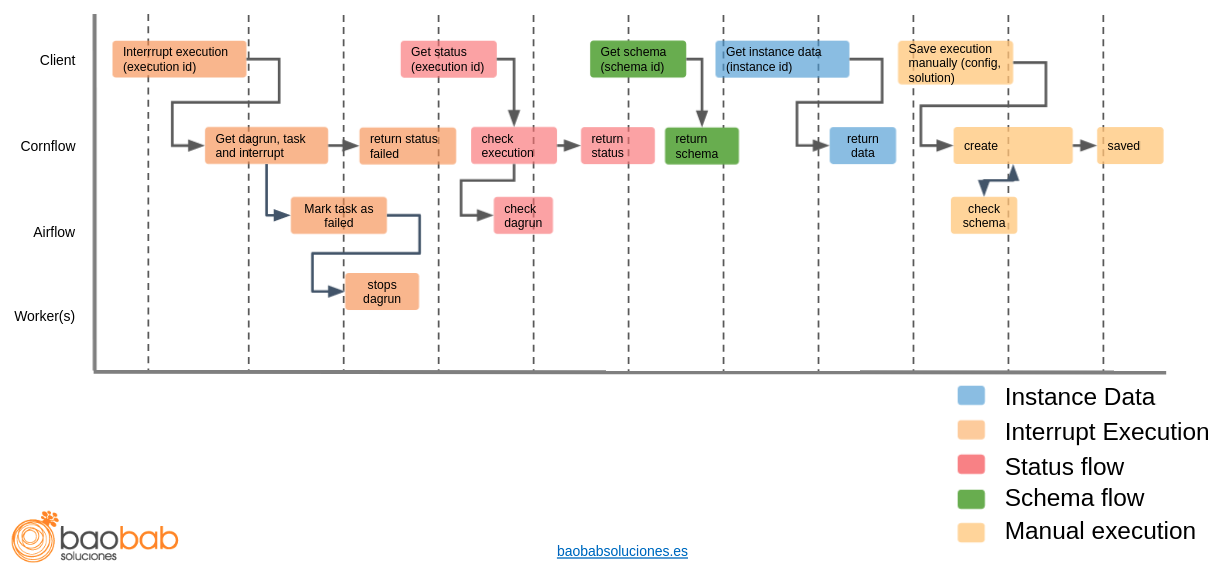
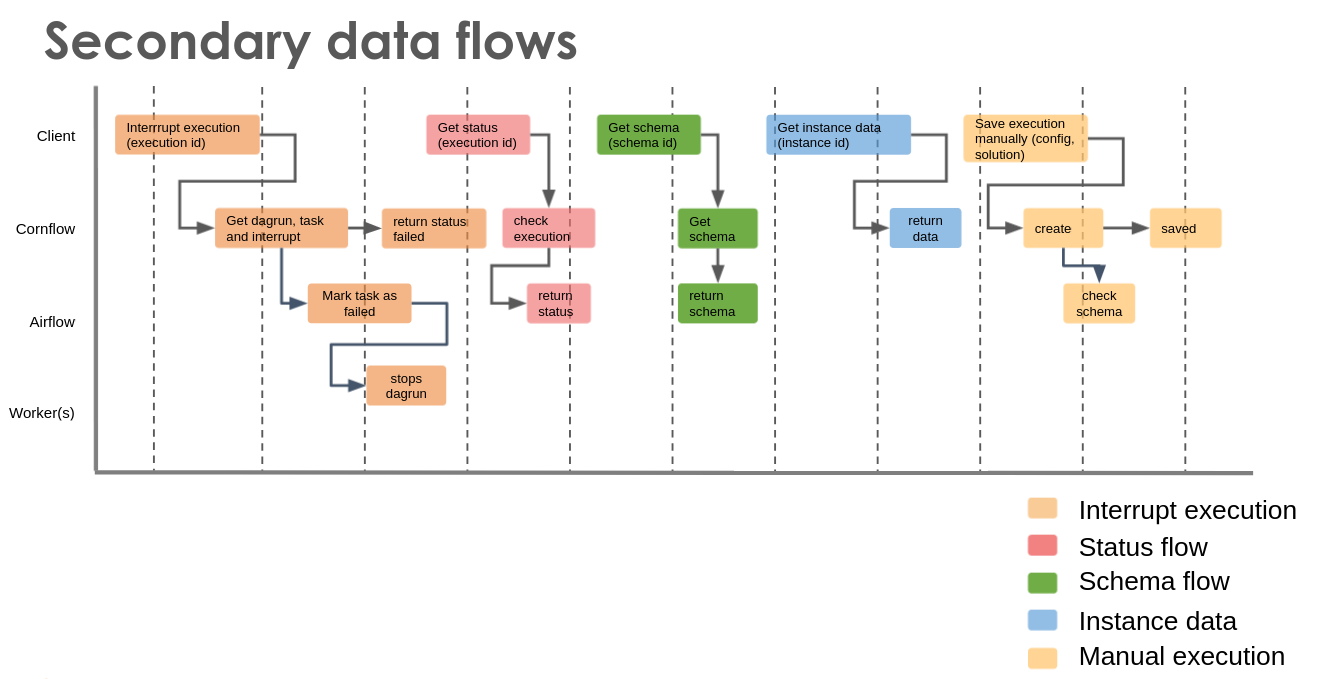
Docs (#92)
* updated README, docs.

* added more examples and docs

* fixed some missing paragraph.

* fixed typo

* more docs with more images

* added some naming conventions to the docs in jsonschema

diff --git a/docs/source/main/concepts.rst b/docs/source/main/concepts.rst
@@ -15,6 +15,13 @@ We sometimes refer to this Decision Problem as an Abstract Problem or just Probl
 
 In Cornflow, a Problem is represented by two schema json files: the first schema file describes the kind of input data format it accepts. This schema describes any Instance of the Problem. The second schema file describes the output data format it returns. This schema describes any Solution of the Problem.
 
+.. _concepts1:
+
+.. figure:: ./../_static/concepts1.png
+
+   Main concepts in a Cornflow deployment of an Optimization Problem
+
+
 Instance
 -------------
 
@@ -51,14 +58,49 @@ A solution method (also called Algorithm) is a function that takes as input an I
 In Cornflow, A Solution Method is a subclass of Experiment.
 
 
-Solve Configuration
+Configuration
 ---------------------
 
-Each Solution Method has ways to configure certain characteristics. The Solve Configuration stores that personalization, such as the time limit, the gap tolerance, among other.
+Each Solution Method has ways to configure certain characteristics. The solve Configuration stores that personalization, such as the time limit, the gap tolerance, among other.
 
 
 Execution
 -------------
 
 Consists of: (1) an Instance with (2) a Solve Configuration and (3) a Solution Method. It is the actual solving of the Decision Problem. It returns a Solution.
+
+Implementation
+-------------------
+
+In practice, Cornflow uses jsonschema to validate the schemas of Instance, Configuration and Solution. It uses python to define a solve method.
+
+.. _concepts2:
+
+.. figure:: ./../_static/concepts2.png
+
+   Implementation of main concepts
+
+
+An example with TSP
+------------------------
+
+Let's take the classical (and famous) problem of the TSP. We need to find the shortest path that joins all nodes in a graph and passes only once through each node. The input data is the distance matrix between each pair of nodes. The output data is an ordered list of nodes (to visit).
+
+Solution methods can be many: a MIP model, a CP model, a call to the `Concorde solver <https://www.math.uwaterloo.ca/tsp/concorde.html>`_, a 2-opt heuristic implementation among many others.
+
+.. _concepts_tsp:
+
+.. figure:: ./../_static/concepts_tsp.png
+
+   Implementation of concepts for a TSP
+
+The following figure shows the schemas and python code required to build the smallest possible TSP Optimization Problem. The solve method consists of returning the nodes in an arbitrary order. Although the solution complies with the schema, the quality of this solution will probable be very low.
+
+.. _concepts_tsp2:
+
+.. figure:: ./../_static/concepts_tsp2.png
+
+   Schemas and solve method for TSP implementation
+
+For more details on these schemas, check :ref:`the json-schema section<Write a json-schema>`. That section includes also the complete :ref:`TSP schemas in text form<Example with TSP>`.
 

diff --git a/docs/source/guides/jsonschema.rst b/docs/source/guides/jsonschema.rst
@@ -139,10 +139,71 @@ Even though most properties of our schema object must be arrays, an exception is
      ]
     }
 
+Naming conventions
+*********************
+
+When naming columns in a "master table", we refer to the unique id of each row as "id" (see the ``shifts`` property below. When an id is used as a foreign key in another table (see the ``resources_not_available`` property), we use id_shift to denote that is the id of the shift that we are using.
+
+.. code-block:: json
+
+    {
+    "$schema": "http://json-schema.org/schema#",
+    "type": "object",
+    "properties": {
+        "shifts": {
+            "type": "array",
+            "items": {
+                "type": "object",
+                "properties": {
+                    "id": {
+                        "type": "string"
+                    },
+                    "start_time": {
+                        "type": "string"
+                    },
+                    "end_time": {
+                        "type": "string"
+                    }
+                },
+                "required": [
+                    "id",
+                    "start_time",
+                    "end_time"
+                ]
+            }
+        },
+        "resources_unavailable": {
+            "type": "array",
+            "items": {
+                "type": "object",
+                "properties": {
+                    "id_resource": {
+                        "type": "string"
+                    },
+                    "id_shift": {
+                        "type": "string"
+                    },
+                    "start_date": {
+                        "type": "string"
+                    },
+                    "end_date": {
+                        "type": "string"
+                    }
+                },
+                "required": [
+                    "id_resource",
+                    "id_shift",
+                    "start_date",
+                    "end_date"
+                ]
+            }
+        },
+        "required": ["shifts", "resources_unavailable"]
+    }
 
 
-Example: TSP
------------------
+Example with TSP
+-------------------
 
 Let's take the well known TSP problem and generate an instance, a solution and a configuration following these guidelines.
 
@@ -234,8 +295,8 @@ An alternative, still valid, schema would be:
 Here we assume the array is sorted and so we do not need the position of the node explicitly.
 
 
-Configuration
-***************
+Configuration schema
+*********************
 
 The configuration will depend on the application. We usually have some default configuration tailored to MIP problems. Here is a minimalistic proposal
 

diff --git a/docs/source/main/architecture.rst b/docs/source/main/architecture.rst
@@ -41,12 +41,12 @@ Any library that uses the REST API to use Cornflow. There are two official clien
 The REST API is created with Open API standards (see :ref:`REST API <rest-api-reference>`), so it should be fairly easy to build new apis.
 
 
-Data flows
-------------
+Main data flows
+-----------------
 
-.. _my-figure:
+.. _main-data-flows:
 
-.. figure:: ./../_static/data_flow.png
+.. figure:: ./../_static/main_flows.png
 
    The main data flows between components
 
@@ -68,13 +68,46 @@ Solve instance (instance, config, dag):
 #. The worker solves the problem.
 #. The worker sends Cornflow the results (solution and log) of the execution.
 
+Retrieve results (execution):
+
+#. Client asks Cornflow for the results to an execution.
+#. Cornflow returns the execution solution and / or log.
+
+Secondary flows
+----------------
+
+.. secondary-data-flows:
+
+.. figure:: ./../_static/secondary_flows.png
+
+   The secondary data flows between components
+
+Interrupt execution (execution):
+
+#. Client asks Cornflow to stop an execution.
+#. Cornflow checks the current status and asks Airflow to stop the execution.
+#. Airflow kills the process and worker by deleting the execution.
+
 Retrieve status (execution):
 
 #. Client asks Cornflow for the results to an execution.
 #. If Cornflow does not know it: it asks Airflow for the status.
 #. Cornflow returns the status to the user.
 
-Retrieve results (execution):
+Retrieve schema:
 
-#. Client asks Cornflow for the results to an execution.
-#. Cornflow returns the execution solution and / or log.
+#. Client asks Cornflow for the schema to a problem.
+#. Cornflow asks Airflow for the schema of a problem.
+#. Airflow returns the schema if it exists.
+
+Get instance data:
+
+#. Client asks Cornflow for the data of an instance.
+#. Cornflow returns the data of the instance if it exists.
+
+Save manual execution:
+
+#. Client sends Cornflow a solved problem.
+#. Cornflow check the problem matches the schema.
+#. Cornflow saves the execution.
+

diff --git a/README.rst b/README.rst
@@ -1,14 +1,14 @@
 Cornflow
 =========
 
-.. image:: https://github.com/baobabsoluciones/corn/workflows/build/badge.svg?style=svg
-    :target: https://github.com/baobabsoluciones/corn/actions
+.. image:: https://github.com/baobabsoluciones/cornflow-server/workflows/build/badge.svg?style=svg
+    :target: https://github.com/baobabsoluciones/cornflow-server/actions
 
-.. image:: https://github.com/baobabsoluciones/corn/workflows/docs/badge.svg?style=svg
-    :target: https://github.com/baobabsoluciones/corn/actions
+.. image:: https://github.com/baobabsoluciones/cornflow-server/workflows/docs/badge.svg?style=svg
+    :target: https://github.com/baobabsoluciones/cornflow-server/actions
 
-.. image:: https://github.com/baobabsoluciones/corn/workflows/integration/badge.svg?style=svg
-    :target: https://github.com/baobabsoluciones/corn/actions
+.. image:: https://github.com/baobabsoluciones/cornflow-server/workflows/integration/badge.svg?style=svg
+    :target: https://github.com/baobabsoluciones/cornflow-server/actions
 
 .. image:: https://img.shields.io/pypi/v/cornflow-client.svg?style=svg
    :target: https://pypi.python.org/pypi/cornflow-client

diff --git a/docs/source/deploy/index.rst b/docs/source/deploy/index.rst
@@ -2,7 +2,7 @@ Deploy your own Cornflow-server
 ==========================================
 
 From the beginning of the project, we thought that the best way to offer a cornflow deployment would be through container technology. Following the agile methodology allows us to translate the development to any system in a precise and immutable way. We will continue to work to provide a kubernetes installation template and other code-infrastructure deployment methods.
-In `this repository <https://github.com/baobabsoluciones/corn>`_ you can find various templates for `docker-compose <https://docs.docker.com/compose/>`_ in which to test different types of deployment.
+In `this repository <https://github.com/baobabsoluciones/cornflow-server>`_ you can find various templates for `docker-compose <https://docs.docker.com/compose/>`_ in which to test different types of deployment.
 
 The ``docker-compose.yml`` describes the build of this services:
 

diff --git a/docs/source/deploy/production.rst b/docs/source/deploy/production.rst
@@ -65,7 +65,7 @@ LDAP Authentication
 Cornflow supports user authentication through LDAP protocol. This means that you can configure the application to point to your security application server and cornflow reads the user management of your organization.
 To activate the functionality that supports this type of access, it is necessary set the value of the ldap environment variables before starting the cornflow service.
 
-In the `repository <https://raw.githubusercontent.com/baobabsoluciones/corn/master/docker-compose-cornflow-ldap.yml>`_ we have an example of deployment with docker to configure access with LDAP protocol::
+In the `repository <https://raw.githubusercontent.com/baobabsoluciones/cornflow-server/master/docker-compose-cornflow-ldap.yml>`_ we have an example of deployment with docker to configure access with LDAP protocol::
 
     docker-compose -f docker-compose-cornflow-ldap.yml up -d
 

diff --git a/docs/source/guides/testing_app.rst b/docs/source/guides/testing_app.rst
@@ -7,7 +7,7 @@ Basics of testing
 The `cornflow-dags-public <https://github.com/baobabsoluciones/cornflow-dags-public>`_ project includes some unit tests that can be run to be sure the projects are “ready to be merged”. These unit tests use as input data the output of the function ``test_cases()`` defined in cornflow-dags/DAG/my_project/__init__.py. The tests themselves load the data, validate it with the schema, solve the problem, get a solution and validate it.
 
 In order for your dag to be tested along with the others, you should add it to the unit tests to be run. The file to modify is ``c
-ornflow-dags/tests/test_dags.py``. In this file, you must add a class corresponding to your project. It should look something like:
+ornflow-dags/tests/test_dags.py``. In this file, you must add a class corresponding to your project. It should look something like: 
 
 .. code-block:: python
 

diff --git a/docs/source/main/install.rst b/docs/source/main/install.rst
@@ -192,9 +192,7 @@ Help me
 
 If you have a database server and you only want to create the database or, for example, you already have an airflow environment, you can go to the following links to learn more about other types of cornflow deployment.
 
-`Cornflow complete install documentation <https://baobabsoluciones.github.io/corn/main/includeme.html#install-cornflow>`_
-
-`Deploy cornflow with docker <https://baobabsoluciones.github.io/corn/deploy/index.html>`_
+:ref:`Deploy cornflow with docker<Deploy your own Cornflow-server>`
 
 `Airflow documentation <https://airflow.apache.org/docs/apache-airflow/2.1.0/index.html>`_
 

diff --git a/docs/source/guides/use_solver.rst b/docs/source/guides/use_solver.rst
@@ -13,9 +13,9 @@ Once your dag is on the server, you can use the cornflow-client package to acces
     from instance import Instance
 
 
-    path = "C:/Users/me/path/to/my/data-file.xml”
+    path = "C:/Users/me/path/to/my/input-data-file.json”
     // Data in the schema format:
-    data = Instance.from_file(path).to_dict()
+    data = Instance.from_json(path).to_dict()
 
     client = CornFlow("https://devsm.cornflow.baobabsoluciones.app")
     // Sign_up only the first time:
